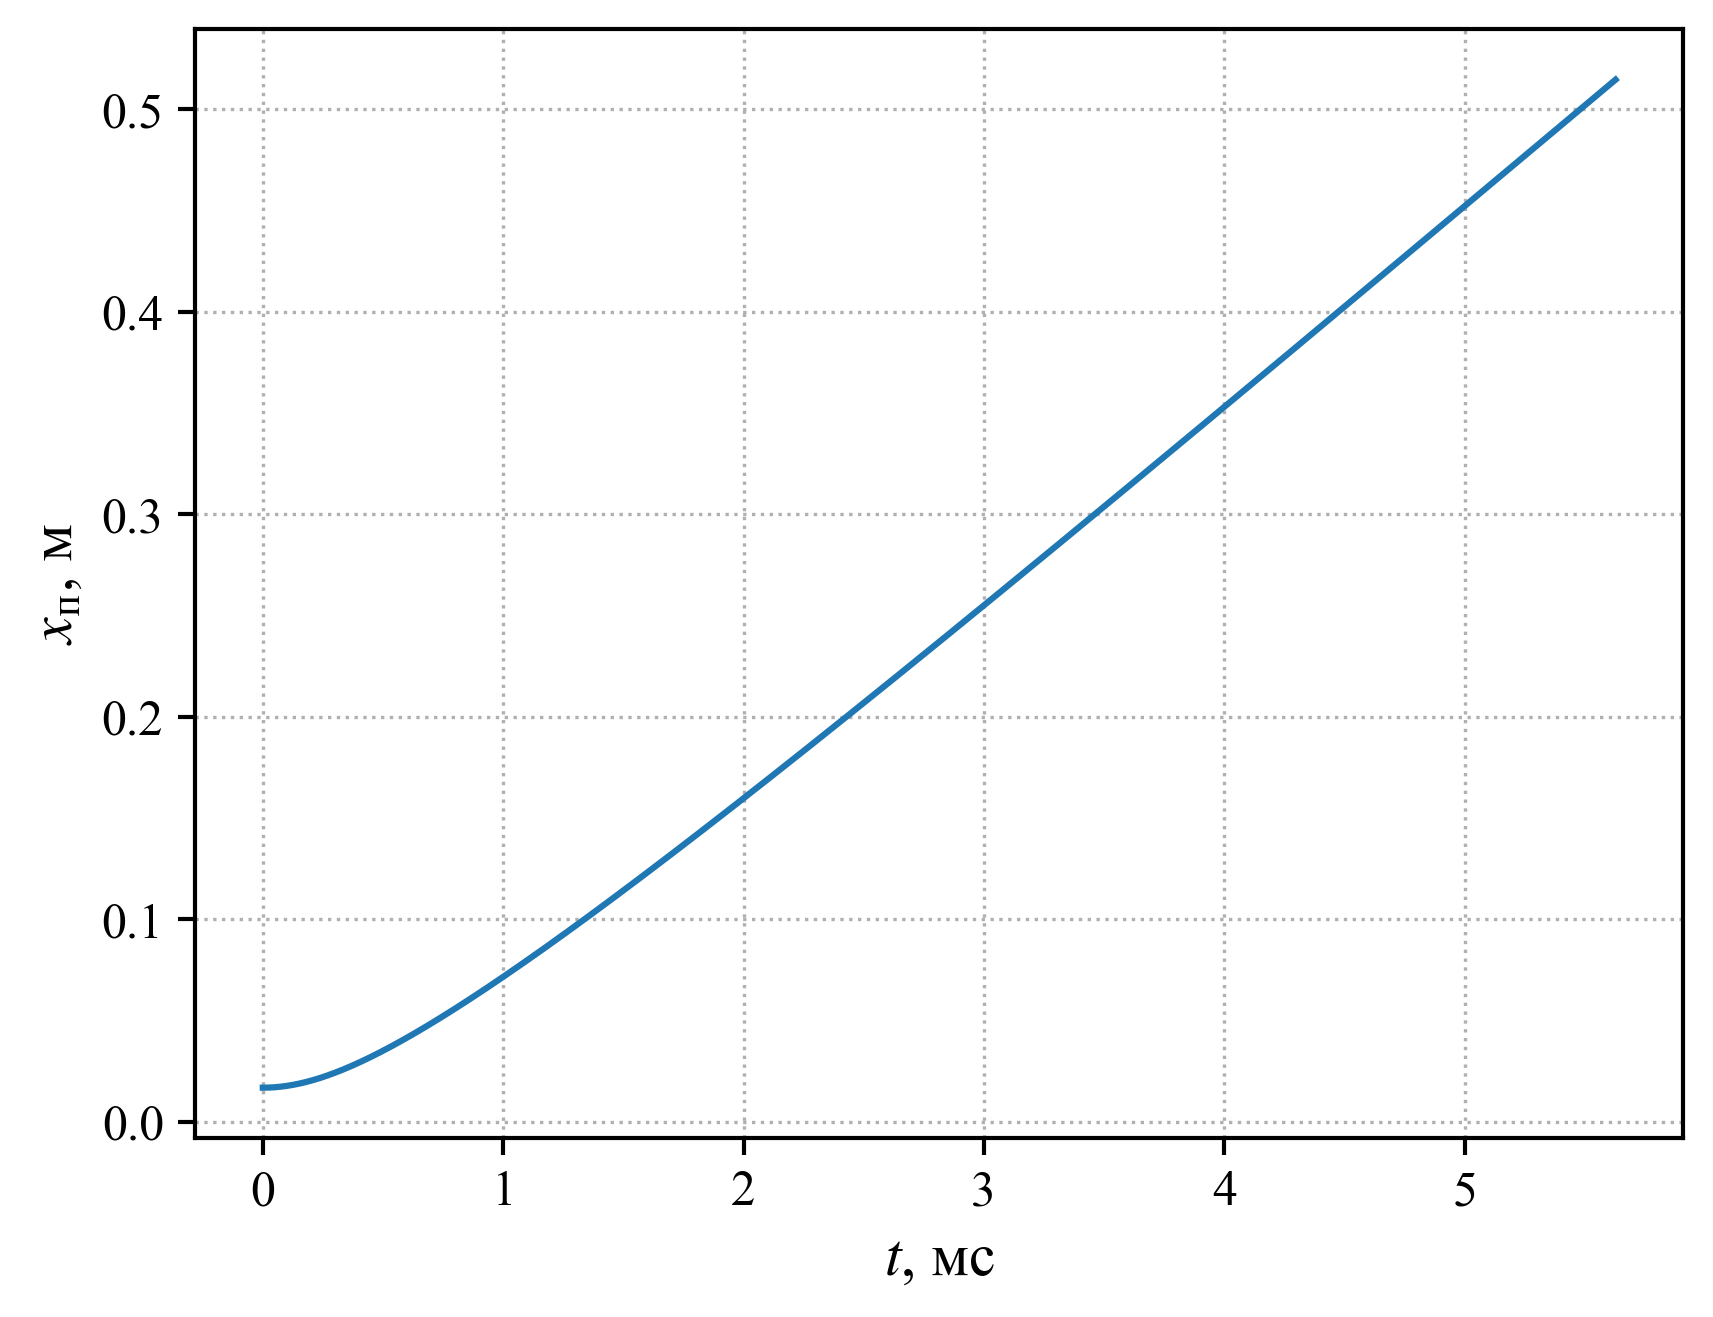
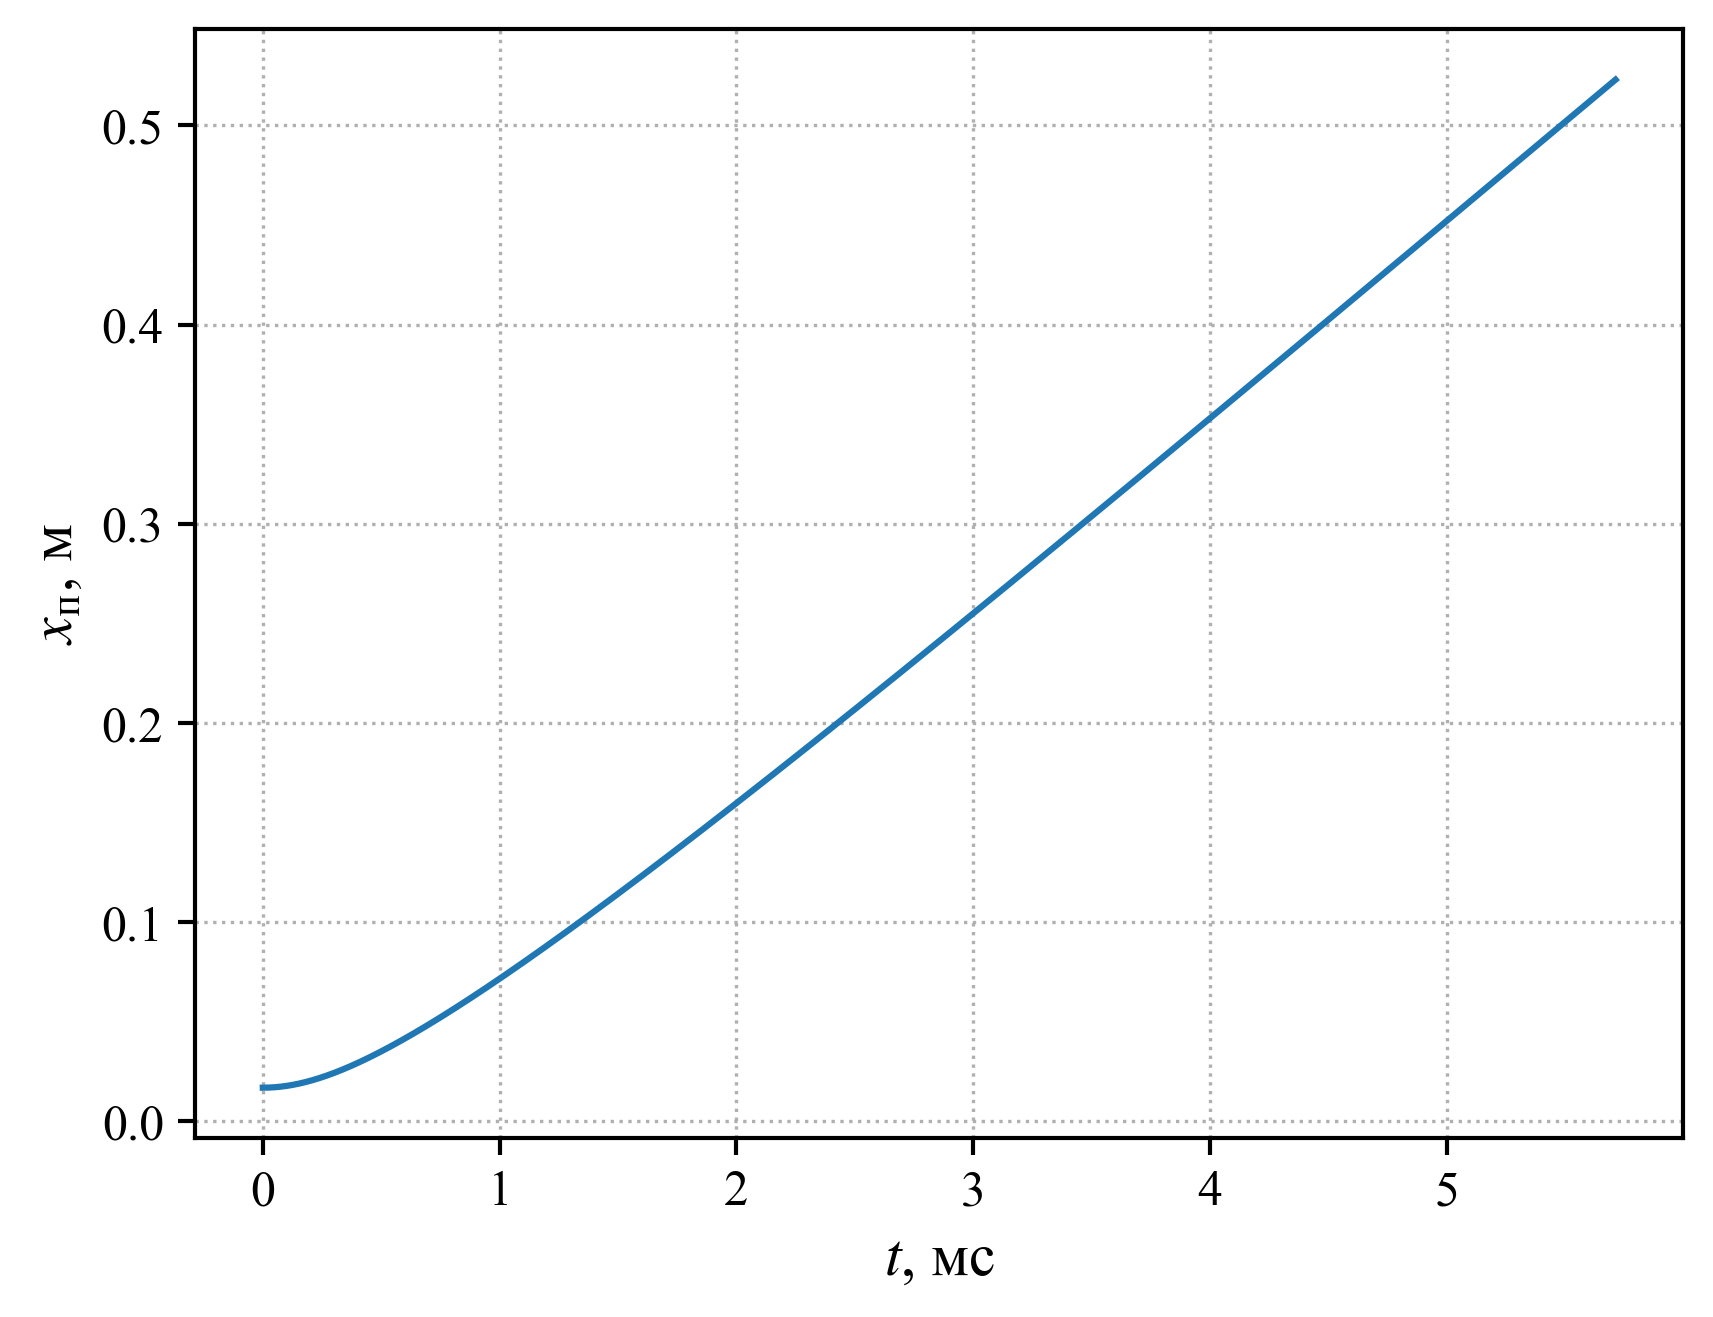
Fix

diff --git a/gasdynamics/course_work/max_eta.py b/gasdynamics/course_work/max_eta.py
@@ -16,9 +16,9 @@ def optimize(data: dict):
     bounds = [p, T, x_0, tube_len]
     
     sol = opti.differential_evolution(
-        solve, bounds,
-        popsize=32, tol=0.001, args=(data,), workers=-1, callback=cb, disp=True,
-        polish=False, constraints=opti.LinearConstraint(
+        solve, bounds, args=(data,), workers=-1, callback=cb, disp=True,
+        popsize=120, mutation=(0.67, 1), tol=0.001, polish=False,
+        constraints=opti.LinearConstraint(
             (0, 0, 1/cons["x_0_ratio"], -1), ub=0
         )
     )
@@ -37,8 +37,8 @@ def solve(x: list, data: dict):
     m_p = data["piston"]["m"]
 
     sol = eu.solve(x_0, m_p, tube_len, p_0, T_0, data)
+    # x_p = sol.x_p_store[-1]
     v_p = sol.v_p_store[-1]
-    x_p = sol.x_p_store[-1]
 
     W_0 = 0.25 * np.pi * data["tube"]["d"]**2 * x_0
     E_0 = p_0 * W_0 / (data["gas"]["k"] - 1)
@@ -46,7 +46,7 @@ def solve(x: list, data: dict):
     v_p_req = cons["v_p"]
 
     eta = E_kin / E_0
-    x_0_max = x_p * cons["x_0_ratio"]
+    # x_0_max = x_p * cons["x_0_ratio"]
     
     penalty = 0
     if v_p < v_p_req:

diff --git a/gasdynamics/course_work/max_kin_energy.py b/gasdynamics/course_work/max_kin_energy.py
@@ -11,9 +11,11 @@ def optimize(data: dict):
     m_p = cons["piston_m_min"], cons["piston_m_max"]
     x_p = data["piston"]["x_0"] + 0.01, data["tube"]["d"] * cons["n_tube_len"]
     bounds = [p, T, m_p, x_p]
+
     sol = opti.differential_evolution(
         solve, bounds,
-        popsize=32, args=(data,), workers=-1, callback=cb, disp=True
+        args=(data,), workers=-1, callback=cb, disp=True,
+        popsize=120, mutation=(0.67, 1), tol=0.001, polish=False
     )
 
     return sol.x, -sol.fun

diff --git a/gasdynamics/course_work/direct/euler.py b/gasdynamics/course_work/direct/euler.py
@@ -34,7 +34,8 @@ def solve(x_0, m_p, tube_len, p_0, T_0, data: dict):
     v_p_store = [piston_v]
 
     i, i_max = 0, data["maxiter"]
-    while piston_x < tube_len and i <= i_max:
+    v_required = data["constraints"]["v_p"]
+    while piston_x < tube_len and piston_v < v_required and i <= i_max:
         p = equation_of_state(q, k)
         c = calc_sonic(p, q[0], k)
         dt = calc_time_step(q, dx, c, courant)

diff --git a/gasdynamics/course_work/max_pulse.py b/gasdynamics/course_work/max_pulse.py
@@ -13,7 +13,8 @@ def optimize(data: dict):
     bounds = [p, T, m_p, x_p]
     sol = opti.differential_evolution(
         solve, bounds,
-        popsize=32, args=(data,), workers=-1, callback=cb, disp=True
+        args=(data,), workers=-1, callback=cb, disp=True,
+        popsize=120, mutation=(0.67, 1), tol=0.001, polish=False
     )
 
     return sol.x, -sol.fun
